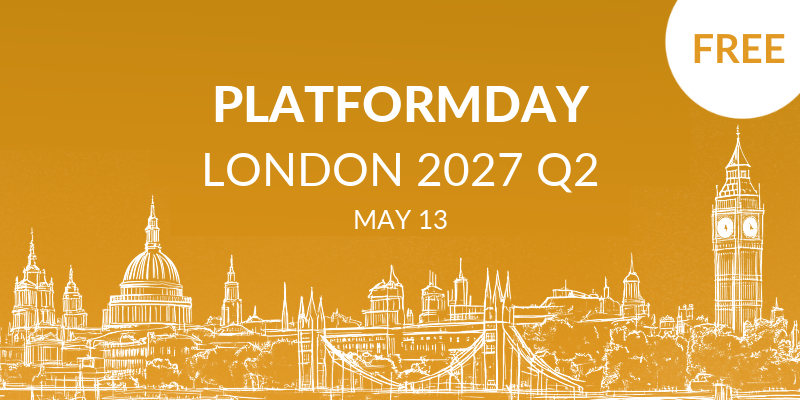
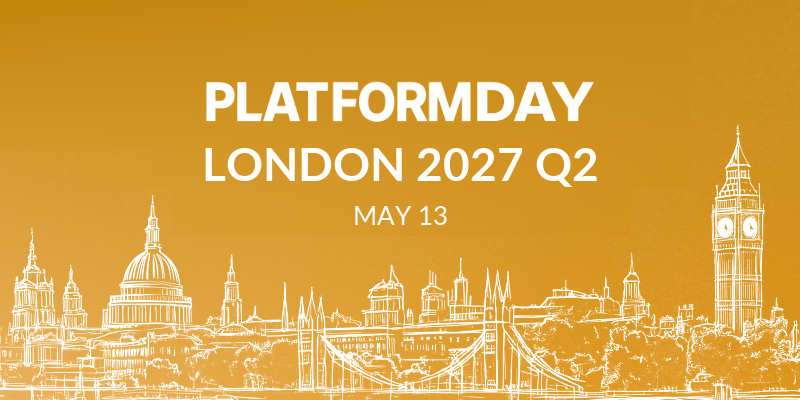
PLATFORMday London 2027 Q2: paid event, card in the Austin card's lettering
- Card: the real PLATFORMDAY lettering lifted from the Austin 2026 Q4 card,
  city line in Lato Bold 46 and date in Lato Regular 26 like Austin, no FREE badge.
- registration_free: false in metadata; the teaser ball's "PLATFORMday is always
  free" rule now gives way to that, so London gets PLAT20 / PLAT40, not FREE EVENT.

diff --git a/2026-austin-q4/_build/generate.py b/2026-austin-q4/_build/generate.py
@@ -1982,7 +1982,8 @@ except ValueError:
 _tz_pct = 20 if _tz_days is None or _tz_days >= 21 else 40   # SRE40 / LLM40 / PLAT40 / PEC40 (Marek 2026-10-09, was 60)
 context['tz'] = {
     'scheme': _tz_k, 'dl': _tz_opposite(context.get('brand_color') or '#333'), 'ramp': _tz_ramp(), 'ramp45': _tz_ramp(135), 'sweeps': _tz_sweeps_svg(), 'sweeps_sunrise': _tz_sweeps_svg(_TZ_SUNRISE), 'sweeps_waves': _tz_sweeps_svg(_TZ_WAVES), 'sweeps_corners': _tz_sweeps_svg(_TZ_CORNERS), 'sweeps_halo': _tz_sweeps_svg(_TZ_HALO), 'logo': _tz_logo, 'logo_left': _tz_logo_left, 'blend': _tz_blend,
-    'free': bool(context['hero_event'].get('is_free')) or _tz_key == 'platformday',   # PLATFORMday is always free (Marek's rule), whatever Luma says
+    # PLATFORMday is free (Marek's rule), whatever Luma says - unless metadata says registration_free: false (London 2027 Q2 is paid)
+    'free': bool(context['hero_event'].get('is_free')) or (_tz_key == 'platformday' and context.get('registration_free') is None),
     # Marek 2026-10-08: no ball at all unless the event is on Luma (and Luma answered) AND has a confirmed venue -
     # Tel Aviv (free, in10t registration) and Campinas (paid, venue TBC, no Luma yet) show no ball, never a code nobody can use
     'show': (bool(context.get('luma_connected')) or (_tz_key == 'platformday' and bool(context.get('luma_evt')))) and not context.get('venue_tbc'), 'pct': _tz_pct, 'code': '%s%d' % (_tz_prefix, _tz_pct),

diff --git a/2026-san-francisco-q4/_build/generate.py b/2026-san-francisco-q4/_build/generate.py
@@ -1982,7 +1982,8 @@ except ValueError:
 _tz_pct = 20 if _tz_days is None or _tz_days >= 21 else 40   # SRE40 / LLM40 / PLAT40 / PEC40 (Marek 2026-10-09, was 60)
 context['tz'] = {
     'scheme': _tz_k, 'dl': _tz_opposite(context.get('brand_color') or '#333'), 'ramp': _tz_ramp(), 'ramp45': _tz_ramp(135), 'sweeps': _tz_sweeps_svg(), 'sweeps_sunrise': _tz_sweeps_svg(_TZ_SUNRISE), 'sweeps_waves': _tz_sweeps_svg(_TZ_WAVES), 'sweeps_corners': _tz_sweeps_svg(_TZ_CORNERS), 'sweeps_halo': _tz_sweeps_svg(_TZ_HALO), 'logo': _tz_logo, 'logo_left': _tz_logo_left, 'blend': _tz_blend,
-    'free': bool(context['hero_event'].get('is_free')) or _tz_key == 'platformday',   # PLATFORMday is always free (Marek's rule), whatever Luma says
+    # PLATFORMday is free (Marek's rule), whatever Luma says - unless metadata says registration_free: false (London 2027 Q2 is paid)
+    'free': bool(context['hero_event'].get('is_free')) or (_tz_key == 'platformday' and context.get('registration_free') is None),
     # Marek 2026-10-08: no ball at all unless the event is on Luma (and Luma answered) AND has a confirmed venue -
     # Tel Aviv (free, in10t registration) and Campinas (paid, venue TBC, no Luma yet) show no ball, never a code nobody can use
     'show': (bool(context.get('luma_connected')) or (_tz_key == 'platformday' and bool(context.get('luma_evt')))) and not context.get('venue_tbc'), 'pct': _tz_pct, 'code': '%s%d' % (_tz_prefix, _tz_pct),

diff --git a/2027-london-q2/_build/generate.py b/2027-london-q2/_build/generate.py
@@ -1982,7 +1982,8 @@ except ValueError:
 _tz_pct = 20 if _tz_days is None or _tz_days >= 21 else 40   # SRE40 / LLM40 / PLAT40 / PEC40 (Marek 2026-10-09, was 60)
 context['tz'] = {
     'scheme': _tz_k, 'dl': _tz_opposite(context.get('brand_color') or '#333'), 'ramp': _tz_ramp(), 'ramp45': _tz_ramp(135), 'sweeps': _tz_sweeps_svg(), 'sweeps_sunrise': _tz_sweeps_svg(_TZ_SUNRISE), 'sweeps_waves': _tz_sweeps_svg(_TZ_WAVES), 'sweeps_corners': _tz_sweeps_svg(_TZ_CORNERS), 'sweeps_halo': _tz_sweeps_svg(_TZ_HALO), 'logo': _tz_logo, 'logo_left': _tz_logo_left, 'blend': _tz_blend,
-    'free': bool(context['hero_event'].get('is_free')) or _tz_key == 'platformday',   # PLATFORMday is always free (Marek's rule), whatever Luma says
+    # PLATFORMday is free (Marek's rule), whatever Luma says - unless metadata says registration_free: false (London 2027 Q2 is paid)
+    'free': bool(context['hero_event'].get('is_free')) or (_tz_key == 'platformday' and context.get('registration_free') is None),
     # Marek 2026-10-08: no ball at all unless the event is on Luma (and Luma answered) AND has a confirmed venue -
     # Tel Aviv (free, in10t registration) and Campinas (paid, venue TBC, no Luma yet) show no ball, never a code nobody can use
     'show': (bool(context.get('luma_connected')) or (_tz_key == 'platformday' and bool(context.get('luma_evt')))) and not context.get('venue_tbc'), 'pct': _tz_pct, 'code': '%s%d' % (_tz_prefix, _tz_pct),

diff --git a/_event_template/_build/generate.py b/_event_template/_build/generate.py
@@ -1982,7 +1982,8 @@ except ValueError:
 _tz_pct = 20 if _tz_days is None or _tz_days >= 21 else 40   # SRE40 / LLM40 / PLAT40 / PEC40 (Marek 2026-10-09, was 60)
 context['tz'] = {
     'scheme': _tz_k, 'dl': _tz_opposite(context.get('brand_color') or '#333'), 'ramp': _tz_ramp(), 'ramp45': _tz_ramp(135), 'sweeps': _tz_sweeps_svg(), 'sweeps_sunrise': _tz_sweeps_svg(_TZ_SUNRISE), 'sweeps_waves': _tz_sweeps_svg(_TZ_WAVES), 'sweeps_corners': _tz_sweeps_svg(_TZ_CORNERS), 'sweeps_halo': _tz_sweeps_svg(_TZ_HALO), 'logo': _tz_logo, 'logo_left': _tz_logo_left, 'blend': _tz_blend,
-    'free': bool(context['hero_event'].get('is_free')) or _tz_key == 'platformday',   # PLATFORMday is always free (Marek's rule), whatever Luma says
+    # PLATFORMday is free (Marek's rule), whatever Luma says - unless metadata says registration_free: false (London 2027 Q2 is paid)
+    'free': bool(context['hero_event'].get('is_free')) or (_tz_key == 'platformday' and context.get('registration_free') is None),
     # Marek 2026-10-08: no ball at all unless the event is on Luma (and Luma answered) AND has a confirmed venue -
     # Tel Aviv (free, in10t registration) and Campinas (paid, venue TBC, no Luma yet) show no ball, never a code nobody can use
     'show': (bool(context.get('luma_connected')) or (_tz_key == 'platformday' and bool(context.get('luma_evt')))) and not context.get('venue_tbc'), 'pct': _tz_pct, 'code': '%s%d' % (_tz_prefix, _tz_pct),
